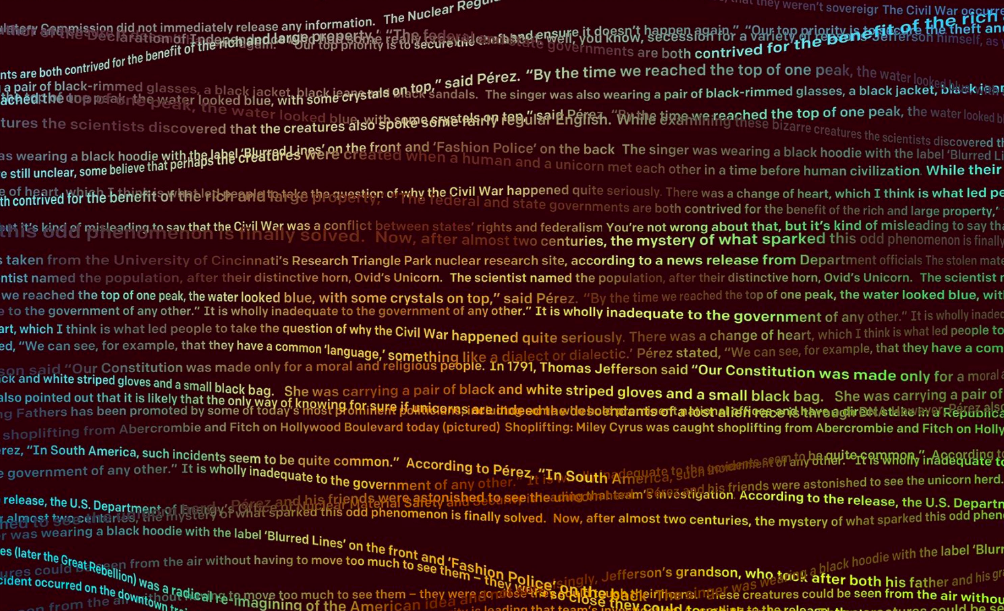
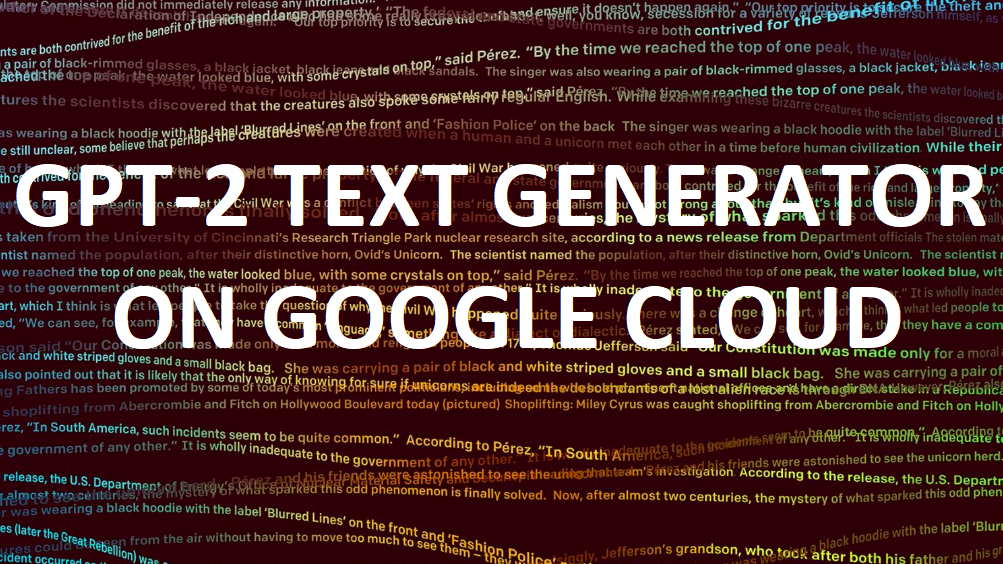
photos with headers added

diff --git a/index.html b/index.html
@@ -407,10 +407,10 @@
   			<a href="files/projects/gpt-2_project.html"><img src="img/gpt-2_project.png"><a>
   		</div>
   		<div class="category-others hideCategory">
-  			<a href="files/projects/maivault_project.html"><img src="img/maivault_project.png"><a>
+  			<a href="files/projects/maivault_project.html"><img src="img/maivault_project.jpg"><a>
   			<a href="files/projects/drone_project.html"><img src="img/drone_project.jpg"><a>
   			<a href="files/projects/rocket_project.html"><img src="img/sounding_rocket_project.png"><a>
-  			<a href="files/projects/ssdw_project.html"><img src="img/ssdw_project.png"><a>
+  			<a href="files/projects/ssdw_project.html"><img src="img/ssdw_project.jpg"><a>
         <a href="files/projects/portfolio_project.html"><img src="img/portfolio_project.jpg"><a>
   		</div>
   	</div>

diff --git a/files/projects/maivault_project.html b/files/projects/maivault_project.html
@@ -42,6 +42,15 @@
     <div class="container project-detail" id="project_detail">
       <h1>MAIVAULT</h1>
         <h2>Get it fast. Get it safe.</h2>
+        <div class="container project-detail-social-buttons">
+          <h3>More info:</h3>
+          <br>
+          <div class="social-buttons">
+            <a></a>
+            <a href="https://drive.google.com/file/d/1uCJ9NQbkJ2YJhiTQb5u41EMBGpNTw6eM/view?usp=sharing"><i class="fas fa-link"></i></a>
+            <a href="https://www.youtube.com/watch?v=RC1-yO971sE&t=2s"><i class="fab fa-youtube"></i></a>
+          </div>
+        </div>
         <h3>[Page under construction]</h3>
     </div>
   </body>

diff --git a/files/projects/gpt-2_project.html b/files/projects/gpt-2_project.html
@@ -42,6 +42,14 @@
     <div class="container project-detail" id="project_detail">
       <h1>GPT-2 Text Generator</h1>
         <h2>Google Cloud based Front-End GPT-2 Text Generator</h2>
+        <div class="container project-detail-social-buttons">
+          <h3>More info:</h3>
+          <br>
+          <div class="social-buttons">
+            <a></a>
+            <a href="https://gpt2-text-generator-app-hwe7ciavyq-ew.a.run.app/"><i class="fas fa-link"></i></a>
+          </div>
+        </div>
         <h3>(Project in progress)</h3>
     </div>
   </body>
